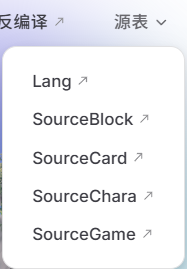
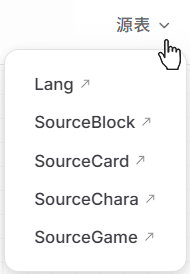
update source guide picture

diff --git a/zh/articles/2_Getting Started/modding_cheatsheet.md b/zh/articles/2_Getting Started/modding_cheatsheet.md
@@ -18,12 +18,13 @@ tags: Cheatsheet
 
 > [!Important] %localappdata%low/Lafrontier/Elin/Player.log
 > :::info 除了按照上面的路径，你还可以按以下步骤打开：
-> 游戏内 `ESC → 设置 → 其他页 → 打开报错记录 `
+> 游戏内 `ESC → 设置 → 其他 → 打开报错记录 `
 >
 > 在文件夹中找到Player.log
 > :::
-> 若有人向你索要Player.log，请将整体文件发送给他，而不要复制文本
+> 其他是指设置里，上面的分页【其他】
 >
+> 若有人向你索要Player.log，请将整体文件发送给他，而不要复制文本
 
 ### 图形资源
 

diff --git a/zh/articles/2_Getting Started/sourcesheet_setup.md b/zh/articles/2_Getting Started/sourcesheet_setup.md
@@ -32,7 +32,7 @@ tags: Guide/General
 
 ## 源表格 (Source Sheets)
 
-在导航栏下拉菜单中查看 Elin 的官方源表：
+在导航栏【源表】的下拉菜单中，查看 Elin 的官方源表：
 
 ![img](./assets/elin_sources.png)
 